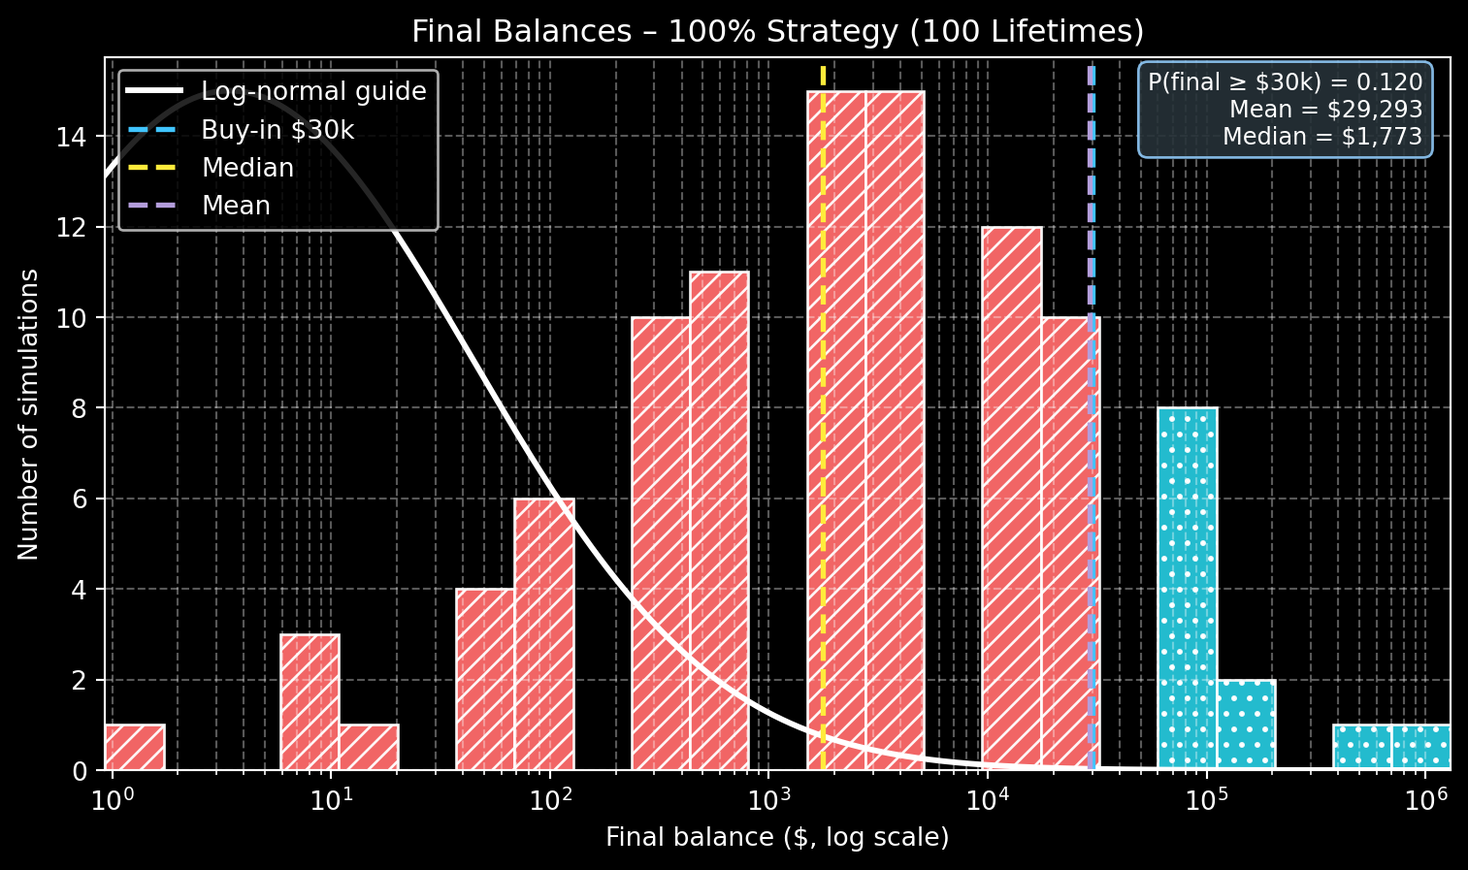
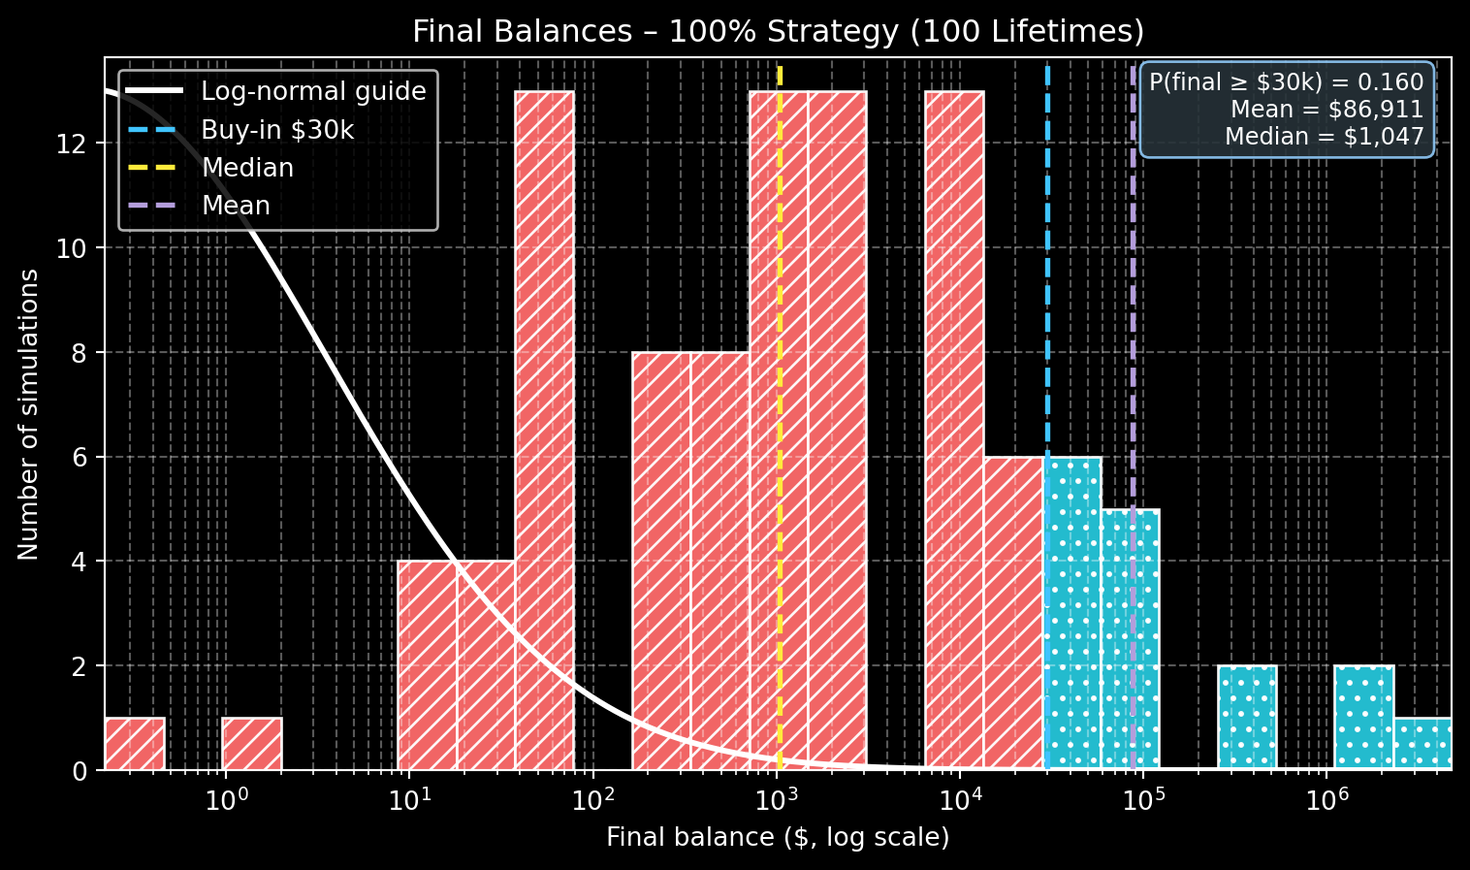
updates to duplicate numbers

diff --git a/index.html b/index.html
@@ -6,7 +6,7 @@
 
 <meta name="viewport" content="width=device-width, initial-scale=1.0, user-scalable=yes">
 
-<meta name="author" content="Your Name">
+<meta name="author" content="Rohit Kumar, Tarkanpet">
 
 <title>Simulation Challenge: Coin-Flip Retirement Game</title>
 <style>
@@ -83,18 +83,19 @@ window.Quarto = {
   <ul>
   <li><a href="#overview" id="toc-overview" class="nav-link active" data-scroll-target="#overview"><span class="header-section-number">1</span> Overview</a>
   <ul class="collapse">
-  <li><a href="#expected-value-after-one-flip" id="toc-expected-value-after-one-flip" class="nav-link" data-scroll-target="#expected-value-after-one-flip"><span class="header-section-number">1.1</span> 1) Expected value after one flip</a></li>
-  <li><a href="#one-simulated-path-from-age-30-to-75-100-strategy" id="toc-one-simulated-path-from-age-30-to-75-100-strategy" class="nav-link" data-scroll-target="#one-simulated-path-from-age-30-to-75-100-strategy"><span class="header-section-number">1.2</span> 2) One simulated path from age 30 to 75 (100% strategy)</a></li>
-  <li><a href="#simulations-distribution-for-the-100-strategy" id="toc-simulations-distribution-for-the-100-strategy" class="nav-link" data-scroll-target="#simulations-distribution-for-the-100-strategy"><span class="header-section-number">1.3</span> 3) 100 simulations – distribution for the 100% strategy</a>
+  <li><a href="#expected-value-after-one-flip" id="toc-expected-value-after-one-flip" class="nav-link" data-scroll-target="#expected-value-after-one-flip"><span class="header-section-number">1.1</span> Expected value after one flip</a></li>
+  <li><a href="#one-simulated-path-from-age-20-to-75-100-strategy" id="toc-one-simulated-path-from-age-20-to-75-100-strategy" class="nav-link" data-scroll-target="#one-simulated-path-from-age-20-to-75-100-strategy"><span class="header-section-number">1.2</span> One simulated path from age 20 to 75 (100% strategy)</a></li>
+  <li><a href="#simulations-distribution-for-the-100-strategy" id="toc-simulations-distribution-for-the-100-strategy" class="nav-link" data-scroll-target="#simulations-distribution-for-the-100-strategy"><span class="header-section-number">1.3</span> 100 simulations – distribution for the 100% strategy</a>
   <ul class="collapse">
   <li><a href="#summary-tables-for-the-100-strategy" id="toc-summary-tables-for-the-100-strategy" class="nav-link" data-scroll-target="#summary-tables-for-the-100-strategy"><span class="header-section-number">1.3.1</span> Summary tables for the 100% strategy</a></li>
   </ul></li>
-  <li><a href="#probability-that-the-balance-exceeds-30000-at-age-75" id="toc-probability-that-the-balance-exceeds-30000-at-age-75" class="nav-link" data-scroll-target="#probability-that-the-balance-exceeds-30000-at-age-75"><span class="header-section-number">1.4</span> 4) Probability that the balance exceeds $30,000 at age 75</a></li>
-  <li><a href="#modified-strategy-bet-25-of-the-balance-each-year" id="toc-modified-strategy-bet-25-of-the-balance-each-year" class="nav-link" data-scroll-target="#modified-strategy-bet-25-of-the-balance-each-year"><span class="header-section-number">1.5</span> 5) Modified strategy – bet 25% of the balance each year</a>
+  <li><a href="#probability-that-the-balance-exceeds-30000-at-age-75" id="toc-probability-that-the-balance-exceeds-30000-at-age-75" class="nav-link" data-scroll-target="#probability-that-the-balance-exceeds-30000-at-age-75"><span class="header-section-number">1.4</span> Probability that the balance exceeds $30,000 at age 75</a></li>
+  <li><a href="#modified-strategy-bet-25-of-the-balance-each-year" id="toc-modified-strategy-bet-25-of-the-balance-each-year" class="nav-link" data-scroll-target="#modified-strategy-bet-25-of-the-balance-each-year"><span class="header-section-number">1.5</span> Modified strategy – bet 25% of the balance each year</a>
   <ul class="collapse">
-  <li><a href="#side-by-side-strategy-comparison" id="toc-side-by-side-strategy-comparison" class="nav-link" data-scroll-target="#side-by-side-strategy-comparison"><span class="header-section-number">1.5.1</span> Side-by-side strategy comparison</a></li>
+  <li><a href="#overlay-of-the-two-strategies" id="toc-overlay-of-the-two-strategies" class="nav-link" data-scroll-target="#overlay-of-the-two-strategies"><span class="header-section-number">1.5.1</span> Overlay of the two strategies</a></li>
+  <li><a href="#side-by-side-strategy-comparison" id="toc-side-by-side-strategy-comparison" class="nav-link" data-scroll-target="#side-by-side-strategy-comparison"><span class="header-section-number">1.5.2</span> Side-by-side strategy comparison</a></li>
   </ul></li>
-  <li><a href="#kelly-style-reflection" id="toc-kelly-style-reflection" class="nav-link" data-scroll-target="#kelly-style-reflection"><span class="header-section-number">1.6</span> 6) Kelly-style reflection</a></li>
+  <li><a href="#kelly-style-reflection" id="toc-kelly-style-reflection" class="nav-link" data-scroll-target="#kelly-style-reflection"><span class="header-section-number">1.6</span> Kelly-style reflection</a></li>
   </ul></li>
   </ul>
 </nav>
@@ -113,7 +114,7 @@ window.Quarto = {
     <div>
     <div class="quarto-title-meta-heading">Author</div>
     <div class="quarto-title-meta-contents">
-             <p>Your Name </p>
+             <p>Rohit Kumar, Tarkanpet </p>
           </div>
   </div>
     
@@ -128,9 +129,9 @@ window.Quarto = {
 
 <section id="overview" class="level1" data-number="1">
 <h1 data-number="1"><span class="header-section-number">1</span> Overview</h1>
-<p>This project studies a coin-flip investment game played once per year from age 30 to age 75.</p>
+<p>This project studies a coin-flip investment game played once per year from age 20 to age 75.</p>
 <ul>
-<li>Starting balance at age 30: <strong>$30,000</strong><br>
+<li>Starting balance at age 20: <strong>$30,000</strong><br>
 </li>
 <li>Each year: flip a fair coin
 <ul>
@@ -145,30 +146,30 @@ window.Quarto = {
 </li>
 <li><strong>25% strategy</strong> – only 25% of the balance is exposed each year; the rest sits out that year.</li>
 </ol>
-<p>The questions:</p>
+<p>The guiding questions:</p>
 <ul>
-<li>What happens to one account over time?<br>
+<li>How wild can one lifetime path become from age 20 to 75?<br>
 </li>
-<li>What do many simulated lifetimes look like?<br>
+<li>Across many simulated lifetimes, what does the distribution of final balances look like?<br>
 </li>
-<li>How often do we finish above the starting $30,000?<br>
+<li>How often do we retire with more than the original $30,000?<br>
 </li>
-<li>How does the 25% strategy change the picture?</li>
+<li>How does the 25% strategy change both risk and upside?</li>
 </ul>
 <section id="expected-value-after-one-flip" class="level2" data-number="1.1">
-<h2 data-number="1.1" class="anchored" data-anchor-id="expected-value-after-one-flip"><span class="header-section-number">1.1</span> 1) Expected value after one flip</h2>
-<p>Initial balance at age 30: <strong>$30,000</strong>.</p>
-<p>Outcomes after one flip:</p>
+<h2 data-number="1.1" class="anchored" data-anchor-id="expected-value-after-one-flip"><span class="header-section-number">1.1</span> Expected value after one flip</h2>
+<p>Imagine the very first year at age 20, right after we invest the $30,000.</p>
+<p>Outcomes after that first coin flip:</p>
 <ul>
-<li>If heads: $45,000 (probability 0.5)<br>
+<li>Heads: the account jumps to $45,000 (probability 0.5)<br>
 </li>
-<li>If tails: $18,000 (probability 0.5)</li>
+<li>Tails: the account drops to $18,000 (probability 0.5)</li>
 </ul>
-<p>Expected value after one flip:</p>
+<p>The expected value after one flip is</p>
 <p>[ [W_1] = 0.5 000 + 0.5 000 = 31{,}500. ]</p>
 <p>Gain in expected value: <strong>$1,500</strong><br>
 Gain as a percentage of the buy-in: <strong>5%</strong></p>
-<p>So at the one-flip level the game increases expected wealth by 5%. The rest of the analysis asks how that story changes when the game is played every year from age 30 to 75.</p>
+<p>So, based on a single step, the game promises about a <strong>5% boost</strong> to wealth. The tension in this project is that we keep playing this game <strong>55 years in a row</strong>, and compounding can amplify both good and bad stretches.</p>
 <div class="callout callout-style-default callout-tip callout-titled">
 <div class="callout-header d-flex align-content-center">
 <div class="callout-icon-container">
@@ -188,35 +189,39 @@ Gain as a percentage of the buy-in: <strong>5%</strong></p>
 <p>]</p>
 <p>Then</p>
 <p>[ [W_1] = (0.5 + 0.5) W_0 = 1.05 W_0, ]</p>
-<p>so the expected gain per flip is 5% of the current wealth.</p>
+<p>so the expected gain per flip is 5% of current wealth.</p>
 </div>
 </div>
 </section>
-<section id="one-simulated-path-from-age-30-to-75-100-strategy" class="level2" data-number="1.2">
-<h2 data-number="1.2" class="anchored" data-anchor-id="one-simulated-path-from-age-30-to-75-100-strategy"><span class="header-section-number">1.2</span> 2) One simulated path from age 30 to 75 (100% strategy)</h2>
+<section id="one-simulated-path-from-age-20-to-75-100-strategy" class="level2" data-number="1.2">
+<h2 data-number="1.2" class="anchored" data-anchor-id="one-simulated-path-from-age-20-to-75-100-strategy"><span class="header-section-number">1.2</span> One simulated path from age 20 to 75 (100% strategy)</h2>
+<p>To get a feel for the risk, I start with one sample lifetime where the entire account is exposed every single year.</p>
 <div id="cell-single-path" class="cell" data-fig-height="4.5" data-fig-width="8" data-execution_count="2">
 <div class="cell-output cell-output-display">
 <div id="single-path" class="quarto-figure quarto-figure-center anchored">
 <figure class="figure">
 <p><img src="index_files/figure-html/single-path-output-1.png" width="758" height="422" class="figure-img"></p>
-<figcaption>One simulated path from age 30 to age 75 when 100% of the account is at risk each year.</figcaption>
+<figcaption>One simulated path from age 20 to age 75 when 100% of the account is at risk each year.</figcaption>
 </figure>
 </div>
 </div>
 </div>
 <div id="single-path-text" class="cell" data-execution_count="3">
 <div class="cell-output cell-output-stdout">
-<pre><code>Final balance at age 75: $4,431.47</code></pre>
+<pre><code>Final balance at age 75: $2,616.74</code></pre>
 </div>
 </div>
+<p><strong>Story of this path.</strong><br>
+The account spends decades drifting up and down, often sitting below the original $30,000 line. By age 75 this run ends far from a “rich retirement”. A single unlucky cluster of tails late in life can erase years of earlier wins, which is exactly what makes the 100% strategy so fragile.</p>
 </section>
 <section id="simulations-distribution-for-the-100-strategy" class="level2" data-number="1.3">
-<h2 data-number="1.3" class="anchored" data-anchor-id="simulations-distribution-for-the-100-strategy"><span class="header-section-number">1.3</span> 3) 100 simulations – distribution for the 100% strategy</h2>
+<h2 data-number="1.3" class="anchored" data-anchor-id="simulations-distribution-for-the-100-strategy"><span class="header-section-number">1.3</span> 100 simulations – distribution for the 100% strategy</h2>
+<p>One path is a story; 100 paths form a distribution. Here I simulate <strong>100 lifetimes</strong> from age 20 to 75 where the full balance is at risk each year and record the final balance at age 75.</p>
 <div id="cell-hist-full" class="cell" data-fig-height="4.8" data-fig-width="8" data-execution_count="5">
 <div class="cell-output cell-output-display">
 <div id="hist-full" class="quarto-figure quarto-figure-center anchored">
 <figure class="figure">
-<p><img src="index_files/figure-html/hist-full-output-1.png" width="757" height="449" class="figure-img"></p>
+<p><img src="index_files/figure-html/hist-full-output-1.png" width="758" height="449" class="figure-img"></p>
 <figcaption>Distribution of final balances for the 100% strategy (100 runs, log scale).</figcaption>
 </figure>
 </div>
@@ -226,140 +231,147 @@ Gain as a percentage of the buy-in: <strong>5%</strong></p>
 <h3 data-number="1.3.1" class="anchored" data-anchor-id="summary-tables-for-the-100-strategy"><span class="header-section-number">1.3.1</span> Summary tables for the 100% strategy</h3>
 <div id="cell-full-tables" class="cell" data-tbl-cap="Distribution statistics for the 100% strategy (100 simulated lifetimes)." data-execution_count="6">
 <div id="full-tables" class="cell-output cell-output-display" data-execution_count="6">
-<pre><code>(&lt;pandas.io.formats.style.Styler at 0x1edae470d40&gt;,
- &lt;pandas.io.formats.style.Styler at 0x1edae2992e0&gt;)</code></pre>
+<pre><code>(&lt;pandas.io.formats.style.Styler at 0x2659950e900&gt;,
+ &lt;pandas.io.formats.style.Styler at 0x2659cbe38f0&gt;)</code></pre>
 </div>
 </div>
+<p><strong>Reading the picture.</strong><br>
+The histogram is very skewed: most lifetimes end in the red, with a small cluster of enormous wins dragging the mean to the right. The median, lower percentiles, and the probability in the table make it clear that a “typical” player does not retire happy with this approach.</p>
 </section>
 </section>
 <section id="probability-that-the-balance-exceeds-30000-at-age-75" class="level2" data-number="1.4">
-<h2 data-number="1.4" class="anchored" data-anchor-id="probability-that-the-balance-exceeds-30000-at-age-75"><span class="header-section-number">1.4</span> 4) Probability that the balance exceeds $30,000 at age 75</h2>
+<h2 data-number="1.4" class="anchored" data-anchor-id="probability-that-the-balance-exceeds-30000-at-age-75"><span class="header-section-number">1.4</span> Probability that the balance exceeds $30,000 at age 75</h2>
+<p>Here I zoom in on one question: <em>starting at age 20, what fraction of lifetimes end at or above $30,000 by age 75 when we always bet 100%?</em></p>
 <div class="cell" data-tbl-cap="Probability that the final balance is at or above $30,000 under the 100% strategy." data-execution_count="7">
 <div id="prob-table" class="cell-output cell-output-display" data-execution_count="7">
 <style type="text/css">
-#T_457d6 th {
+#T_c40ae th {
   background-color: #c62828;
   color: white;
   font-weight: bold;
   padding: 6px;
 }
-#T_457d6 tbody td {
+#T_c40ae tbody td {
   padding: 6px;
 }
-#T_457d6 tbody tr:nth-child(even) {
+#T_c40ae tbody tr:nth-child(even) {
   background-color: #ffebee;
 }
 </style>
 
-<table id="T_457d6" class="caption-top table table-sm table-striped small">
+<table id="T_c40ae" class="caption-top table table-sm table-striped small">
 <caption>Probability that the final balance is at or above $30,000 under the 100% strategy.</caption>
 <thead>
 <tr class="header">
-<th id="T_457d6_level0_col0" class="col_heading level0 col0" data-quarto-table-cell-role="th">Metric</th>
-<th id="T_457d6_level0_col1" class="col_heading level0 col1" data-quarto-table-cell-role="th">Value</th>
+<th id="T_c40ae_level0_col0" class="col_heading level0 col0" data-quarto-table-cell-role="th">Metric</th>
+<th id="T_c40ae_level0_col1" class="col_heading level0 col1" data-quarto-table-cell-role="th">Value</th>
 </tr>
 </thead>
 <tbody>
 <tr class="odd">
-<td id="T_457d6_row0_col0" class="data row0 col0">Number of simulations</td>
-<td id="T_457d6_row0_col1" class="data row0 col1">100</td>
+<td id="T_c40ae_row0_col0" class="data row0 col0">Number of simulated lifetimes</td>
+<td id="T_c40ae_row0_col1" class="data row0 col1">100</td>
 </tr>
 <tr class="even">
-<td id="T_457d6_row1_col0" class="data row1 col0">Number of coin flips per simulation</td>
-<td id="T_457d6_row1_col1" class="data row1 col1">45</td>
+<td id="T_c40ae_row1_col0" class="data row1 col0">Years per lifetime (coin flips)</td>
+<td id="T_c40ae_row1_col1" class="data row1 col1">55</td>
 </tr>
 <tr class="odd">
-<td id="T_457d6_row2_col0" class="data row2 col0">Simulations with final balance ≥ $30,000</td>
-<td id="T_457d6_row2_col1" class="data row2 col1">12</td>
+<td id="T_c40ae_row2_col0" class="data row2 col0">Lifetimes with final balance ≥ $30,000</td>
+<td id="T_c40ae_row2_col1" class="data row2 col1">16</td>
 </tr>
 <tr class="even">
-<td id="T_457d6_row3_col0" class="data row3 col0">Probability (decimal)</td>
-<td id="T_457d6_row3_col1" class="data row3 col1">0.120</td>
+<td id="T_c40ae_row3_col0" class="data row3 col0">Probability (decimal)</td>
+<td id="T_c40ae_row3_col1" class="data row3 col1">0.160</td>
 </tr>
 <tr class="odd">
-<td id="T_457d6_row4_col0" class="data row4 col0">Probability (percentage)</td>
-<td id="T_457d6_row4_col1" class="data row4 col1">12.0%</td>
+<td id="T_c40ae_row4_col0" class="data row4 col0">Probability (percentage)</td>
+<td id="T_c40ae_row4_col1" class="data row4 col1">16.0%</td>
 </tr>
 <tr class="even">
-<td id="T_457d6_row5_col0" class="data row5 col0">Probability (final balance &lt; $30,000)</td>
-<td id="T_457d6_row5_col1" class="data row5 col1">0.880 (88.0%)</td>
+<td id="T_c40ae_row5_col0" class="data row5 col0">Probability (final balance &lt; $30,000)</td>
+<td id="T_c40ae_row5_col1" class="data row5 col1">0.840 (84.0%)</td>
 </tr>
 </tbody>
 </table>
 </div>
 </div>
-<p>This table reports the estimate of (P( 000)) directly from the simulations, without repeating the number again in the surrounding text.</p>
+<p>In words: only a minority of lifetimes end above the starting $30,000, even though each single flip has positive expected value.</p>
 </section>
 <section id="modified-strategy-bet-25-of-the-balance-each-year" class="level2" data-number="1.5">
-<h2 data-number="1.5" class="anchored" data-anchor-id="modified-strategy-bet-25-of-the-balance-each-year"><span class="header-section-number">1.5</span> 5) Modified strategy – bet 25% of the balance each year</h2>
+<h2 data-number="1.5" class="anchored" data-anchor-id="modified-strategy-bet-25-of-the-balance-each-year"><span class="header-section-number">1.5</span> Modified strategy – bet 25% of the balance each year</h2>
+<p>Now I test a more cautious rule: each year only <strong>25%</strong> of the account is exposed to the flip, and 75% sits on the sidelines for that year.</p>
+<section id="overlay-of-the-two-strategies" class="level3" data-number="1.5.1">
+<h3 data-number="1.5.1" class="anchored" data-anchor-id="overlay-of-the-two-strategies"><span class="header-section-number">1.5.1</span> Overlay of the two strategies</h3>
 <div id="cell-overlay-hist" class="cell" data-fig-height="4.8" data-fig-width="8" data-execution_count="9">
 <div class="cell-output cell-output-display">
 <div id="overlay-hist" class="quarto-figure quarto-figure-center anchored">
 <figure class="figure">
-<p><img src="index_files/figure-html/overlay-hist-output-1.png" width="758" height="449" class="figure-img"></p>
+<p><img src="index_files/figure-html/overlay-hist-output-1.png" width="756" height="449" class="figure-img"></p>
 <figcaption>Final balances under the 100% and 25% strategies (log scale, 100 runs each).</figcaption>
 </figure>
 </div>
 </div>
 </div>
-<section id="side-by-side-strategy-comparison" class="level3" data-number="1.5.1">
-<h3 data-number="1.5.1" class="anchored" data-anchor-id="side-by-side-strategy-comparison"><span class="header-section-number">1.5.1</span> Side-by-side strategy comparison</h3>
+</section>
+<section id="side-by-side-strategy-comparison" class="level3" data-number="1.5.2">
+<h3 data-number="1.5.2" class="anchored" data-anchor-id="side-by-side-strategy-comparison"><span class="header-section-number">1.5.2</span> Side-by-side strategy comparison</h3>
 <div class="cell" data-tbl-cap="Comparison of the 100% and 25% strategies over 100 simulated lifetimes." data-execution_count="10">
 <div id="compare-tables" class="cell-output cell-output-display" data-execution_count="10">
 <style type="text/css">
-#T_7154b th {
+#T_dc896 th {
   background-color: #455a64;
   color: white;
   font-weight: bold;
   padding: 6px;
 }
-#T_7154b tbody td {
+#T_dc896 tbody td {
   padding: 6px;
 }
-#T_7154b tbody tr:nth-child(even) {
+#T_dc896 tbody tr:nth-child(even) {
   background-color: #eceff1;
 }
 </style>
 
-<table id="T_7154b" class="caption-top table table-sm table-striped small">
+<table id="T_dc896" class="caption-top table table-sm table-striped small">
 <caption>Comparison of the 100% and 25% strategies over 100 simulated lifetimes.</caption>
 <thead>
 <tr class="header">
-<th id="T_7154b_level0_col0" class="col_heading level0 col0" data-quarto-table-cell-role="th">Statistic</th>
-<th id="T_7154b_level0_col1" class="col_heading level0 col1" data-quarto-table-cell-role="th">100% each year</th>
-<th id="T_7154b_level0_col2" class="col_heading level0 col2" data-quarto-table-cell-role="th">25% each year</th>
+<th id="T_dc896_level0_col0" class="col_heading level0 col0" data-quarto-table-cell-role="th">Statistic</th>
+<th id="T_dc896_level0_col1" class="col_heading level0 col1" data-quarto-table-cell-role="th">100% each year</th>
+<th id="T_dc896_level0_col2" class="col_heading level0 col2" data-quarto-table-cell-role="th">25% each year</th>
 </tr>
 </thead>
 <tbody>
 <tr class="odd">
-<td id="T_7154b_row0_col0" class="data row0 col0">P(final ≥ $30,000)</td>
-<td id="T_7154b_row0_col1" class="data row0 col1">0.120 (12.0%)</td>
-<td id="T_7154b_row0_col2" class="data row0 col2">0.570 (57.0%)</td>
+<td id="T_dc896_row0_col0" class="data row0 col0">P(final ≥ $30,000)</td>
+<td id="T_dc896_row0_col1" class="data row0 col1">0.160 (16.0%)</td>
+<td id="T_dc896_row0_col2" class="data row0 col2">0.680 (68.0%)</td>
 </tr>
 <tr class="even">
-<td id="T_7154b_row1_col0" class="data row1 col0">Mean final balance</td>
-<td id="T_7154b_row1_col1" class="data row1 col1">$29,293.15</td>
-<td id="T_7154b_row1_col2" class="data row1 col2">$48,642.94</td>
+<td id="T_dc896_row1_col0" class="data row1 col0">Mean final balance</td>
+<td id="T_dc896_row1_col1" class="data row1 col1">$86,910.77</td>
+<td id="T_dc896_row1_col2" class="data row1 col2">$49,603.58</td>
 </tr>
 <tr class="odd">
-<td id="T_7154b_row2_col0" class="data row2 col0">Median final balance</td>
-<td id="T_7154b_row2_col1" class="data row2 col1">$1,772.59</td>
-<td id="T_7154b_row2_col2" class="data row2 col2">$35,485.79</td>
+<td id="T_dc896_row2_col0" class="data row2 col0">Median final balance</td>
+<td id="T_dc896_row2_col1" class="data row2 col1">$1,046.70</td>
+<td id="T_dc896_row2_col2" class="data row2 col2">$37,759.79</td>
 </tr>
 <tr class="even">
-<td id="T_7154b_row3_col0" class="data row3 col0">Standard deviation</td>
-<td id="T_7154b_row3_col1" class="data row3 col1">$118,055.01</td>
-<td id="T_7154b_row3_col2" class="data row3 col2">$41,085.65</td>
+<td id="T_dc896_row3_col0" class="data row3 col0">Standard deviation</td>
+<td id="T_dc896_row3_col1" class="data row3 col1">$454,873.69</td>
+<td id="T_dc896_row3_col2" class="data row3 col2">$38,149.02</td>
 </tr>
 <tr class="odd">
-<td id="T_7154b_row4_col0" class="data row4 col0">Minimum</td>
-<td id="T_7154b_row4_col1" class="data row4 col1">$1.16</td>
-<td id="T_7154b_row4_col2" class="data row4 col2">$3,810.26</td>
+<td id="T_dc896_row4_col0" class="data row4 col0">Minimum</td>
+<td id="T_dc896_row4_col1" class="data row4 col1">$0.27</td>
+<td id="T_dc896_row4_col2" class="data row4 col2">$4,054.43</td>
 </tr>
 <tr class="even">
-<td id="T_7154b_row5_col0" class="data row5 col0">Maximum</td>
-<td id="T_7154b_row5_col1" class="data row5 col1">$1,081,901.63</td>
-<td id="T_7154b_row5_col2" class="data row5 col2">$264,389.73</td>
+<td id="T_dc896_row5_col0" class="data row5 col0">Maximum</td>
+<td id="T_dc896_row5_col1" class="data row5 col1">$3,992,825.57</td>
+<td id="T_dc896_row5_col2" class="data row5 col2">$225,065.92</td>
 </tr>
 </tbody>
 </table>
@@ -368,7 +380,7 @@ Gain as a percentage of the buy-in: <strong>5%</strong></p>
 </section>
 </section>
 <section id="kelly-style-reflection" class="level2" data-number="1.6">
-<h2 data-number="1.6" class="anchored" data-anchor-id="kelly-style-reflection"><span class="header-section-number">1.6</span> 6) Kelly-style reflection</h2>
+<h2 data-number="1.6" class="anchored" data-anchor-id="kelly-style-reflection"><span class="header-section-number">1.6</span> Kelly-style reflection</h2>
 <div class="callout callout-style-default callout-tip callout-titled">
 <div class="callout-header d-flex align-content-center">
 <div class="callout-icon-container">
@@ -379,17 +391,17 @@ Gain as a percentage of the buy-in: <strong>5%</strong></p>
 </div>
 </div>
 <div class="callout-body-container callout-body">
-<p>The Kelly Criterion describes how much of a bankroll to stake on a favorable bet when the goal is long-run (geometric) growth.</p>
-<p>For this game (50% chance of +50%, 50% chance of −40%), the Kelly fraction comes out close to <strong>25%</strong> of the account per flip.</p>
+<p>The Kelly Criterion gives the stake fraction that maximizes long-run (geometric) growth for a repeated bet.</p>
+<p>For this coin-flip game (50% chance of +50%, 50% chance of −40%), the Kelly calculation produces an optimal stake fraction close to <strong>25%</strong> of the account each round.</p>
 </div>
 </div>
-<p>The simulations match that idea:</p>
+<p>Viewed through that lens:</p>
 <ul>
-<li>The <strong>100% strategy</strong> sits far above Kelly. It generates a few spectacular wins and many retirements that end below the original $30,000.<br>
+<li>The <strong>100% strategy</strong> is far above Kelly. It offers a few impressive retirements and many that end below the original $30,000 after 55 years of flips.<br>
 </li>
-<li>The <strong>25% strategy</strong> is closer to Kelly. It raises the chance of finishing ahead, pushes the median above $30,000, and reduces the worst outcomes.</li>
+<li>The <strong>25% strategy</strong> sits near the Kelly fraction. It improves the odds of finishing ahead, raises the median outcome, and cuts back the most painful losses.</li>
 </ul>
-<p>Over the horizon from age 30 to 75, the fractional strategy offers a better balance between growth and protection.</p>
+<p>For a long investing life from <strong>age 20 to 75</strong>, the fractional strategy looks like a more realistic way to enjoy the game without letting a long tail of bad luck wreck the outcome.</p>
 </section>
 </section>
 
